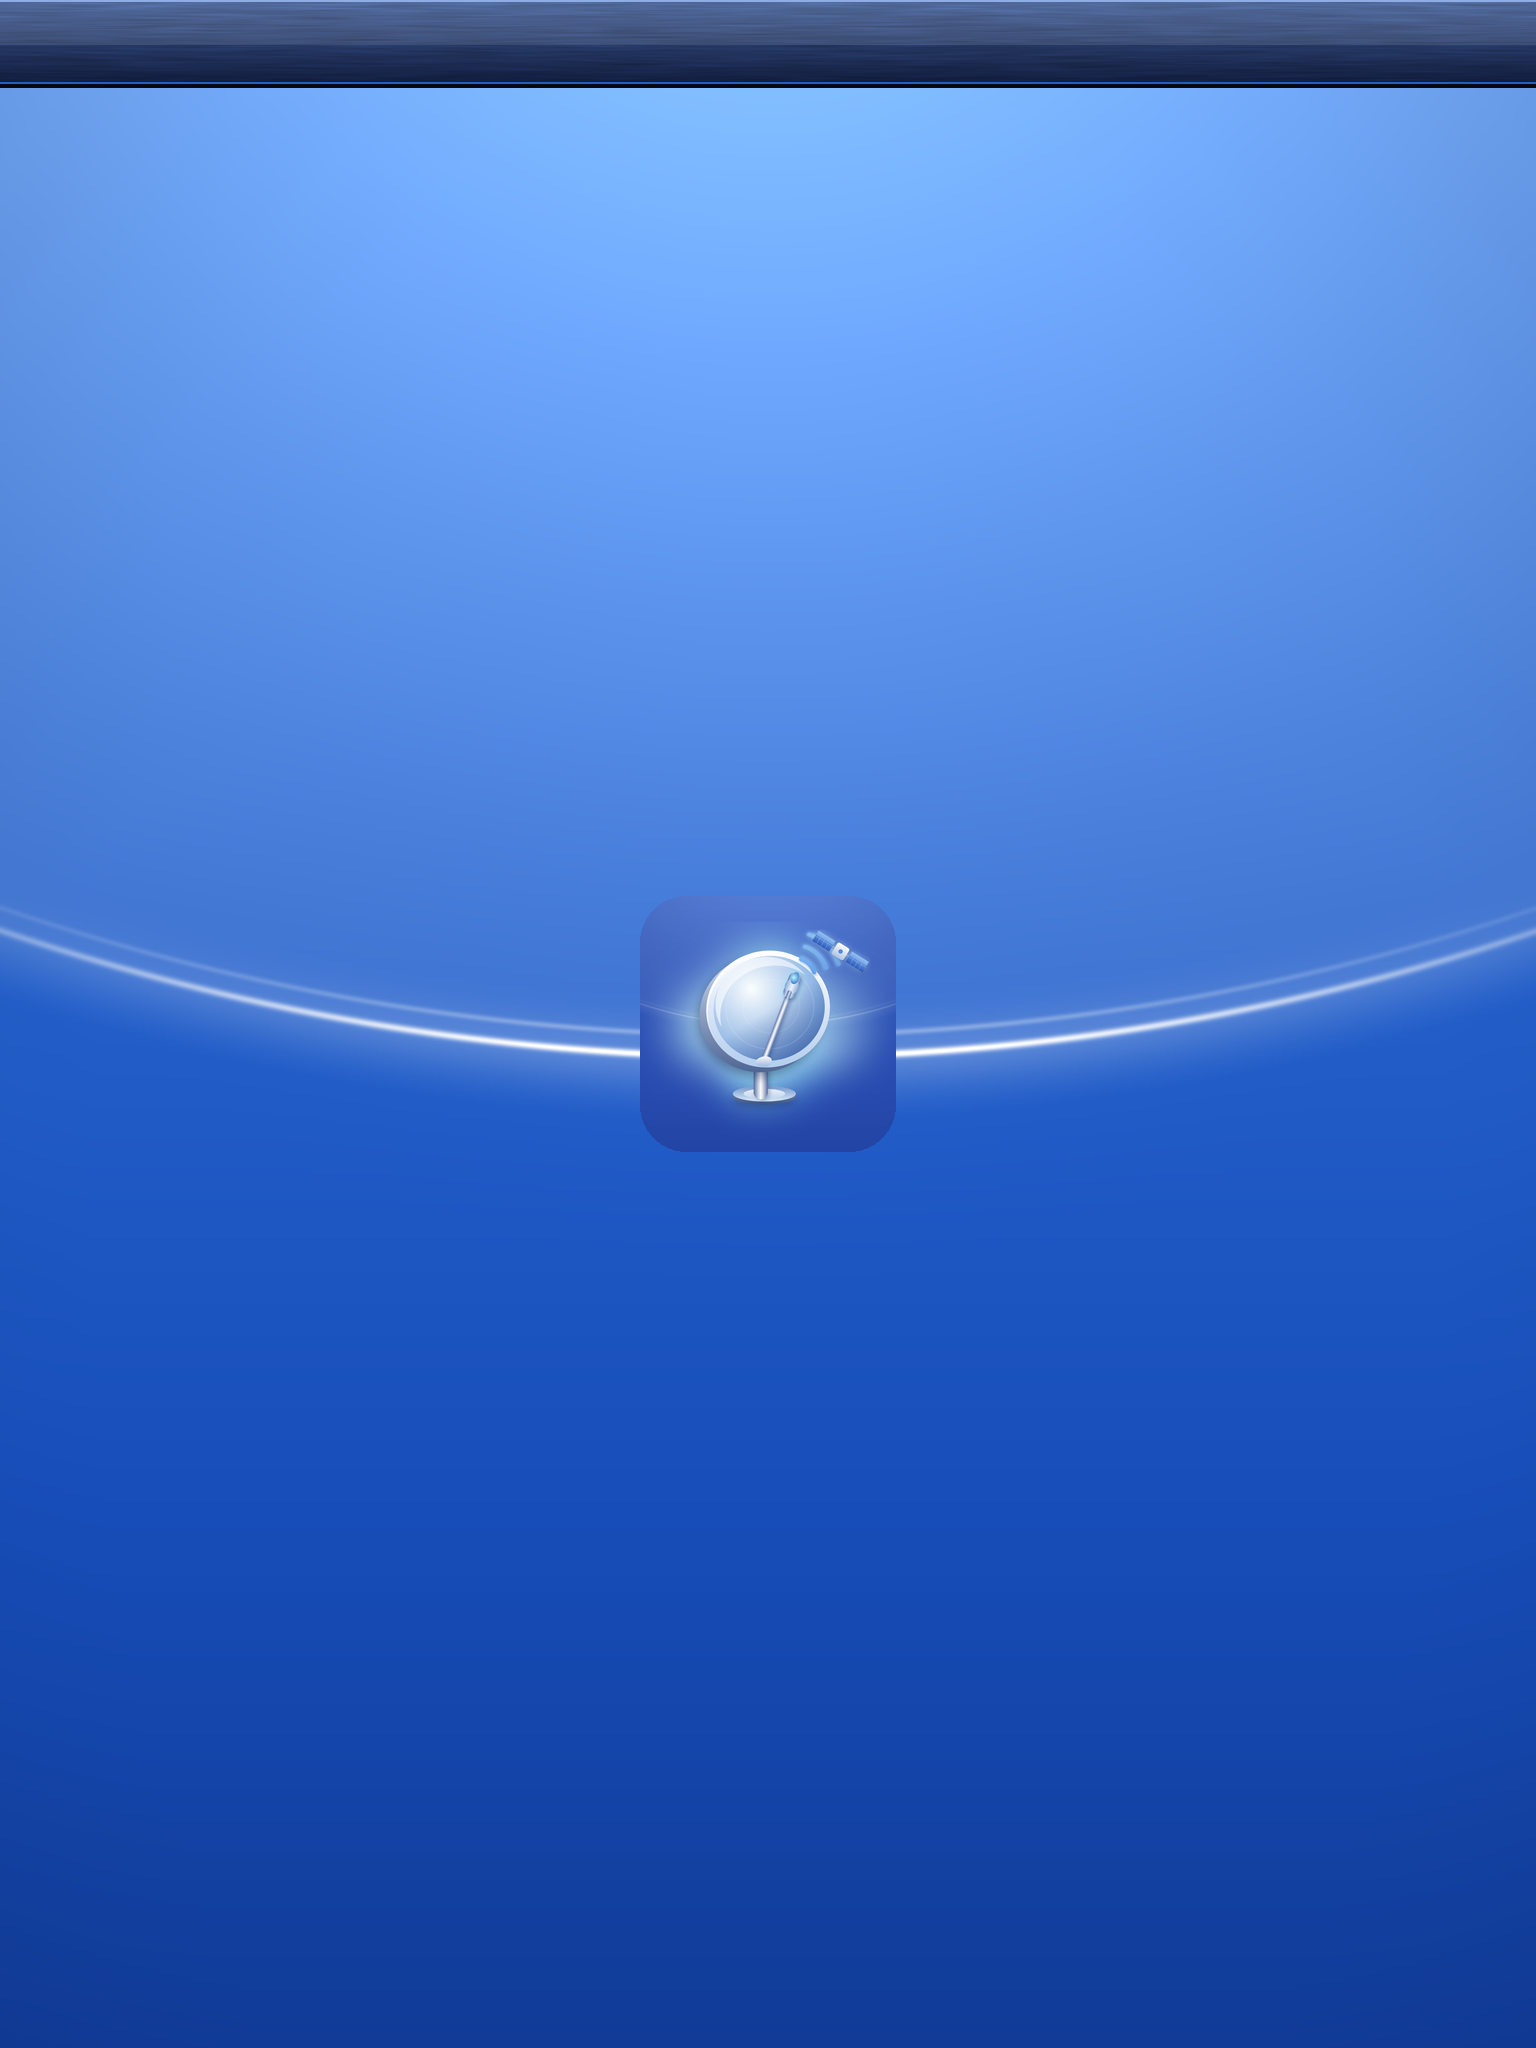
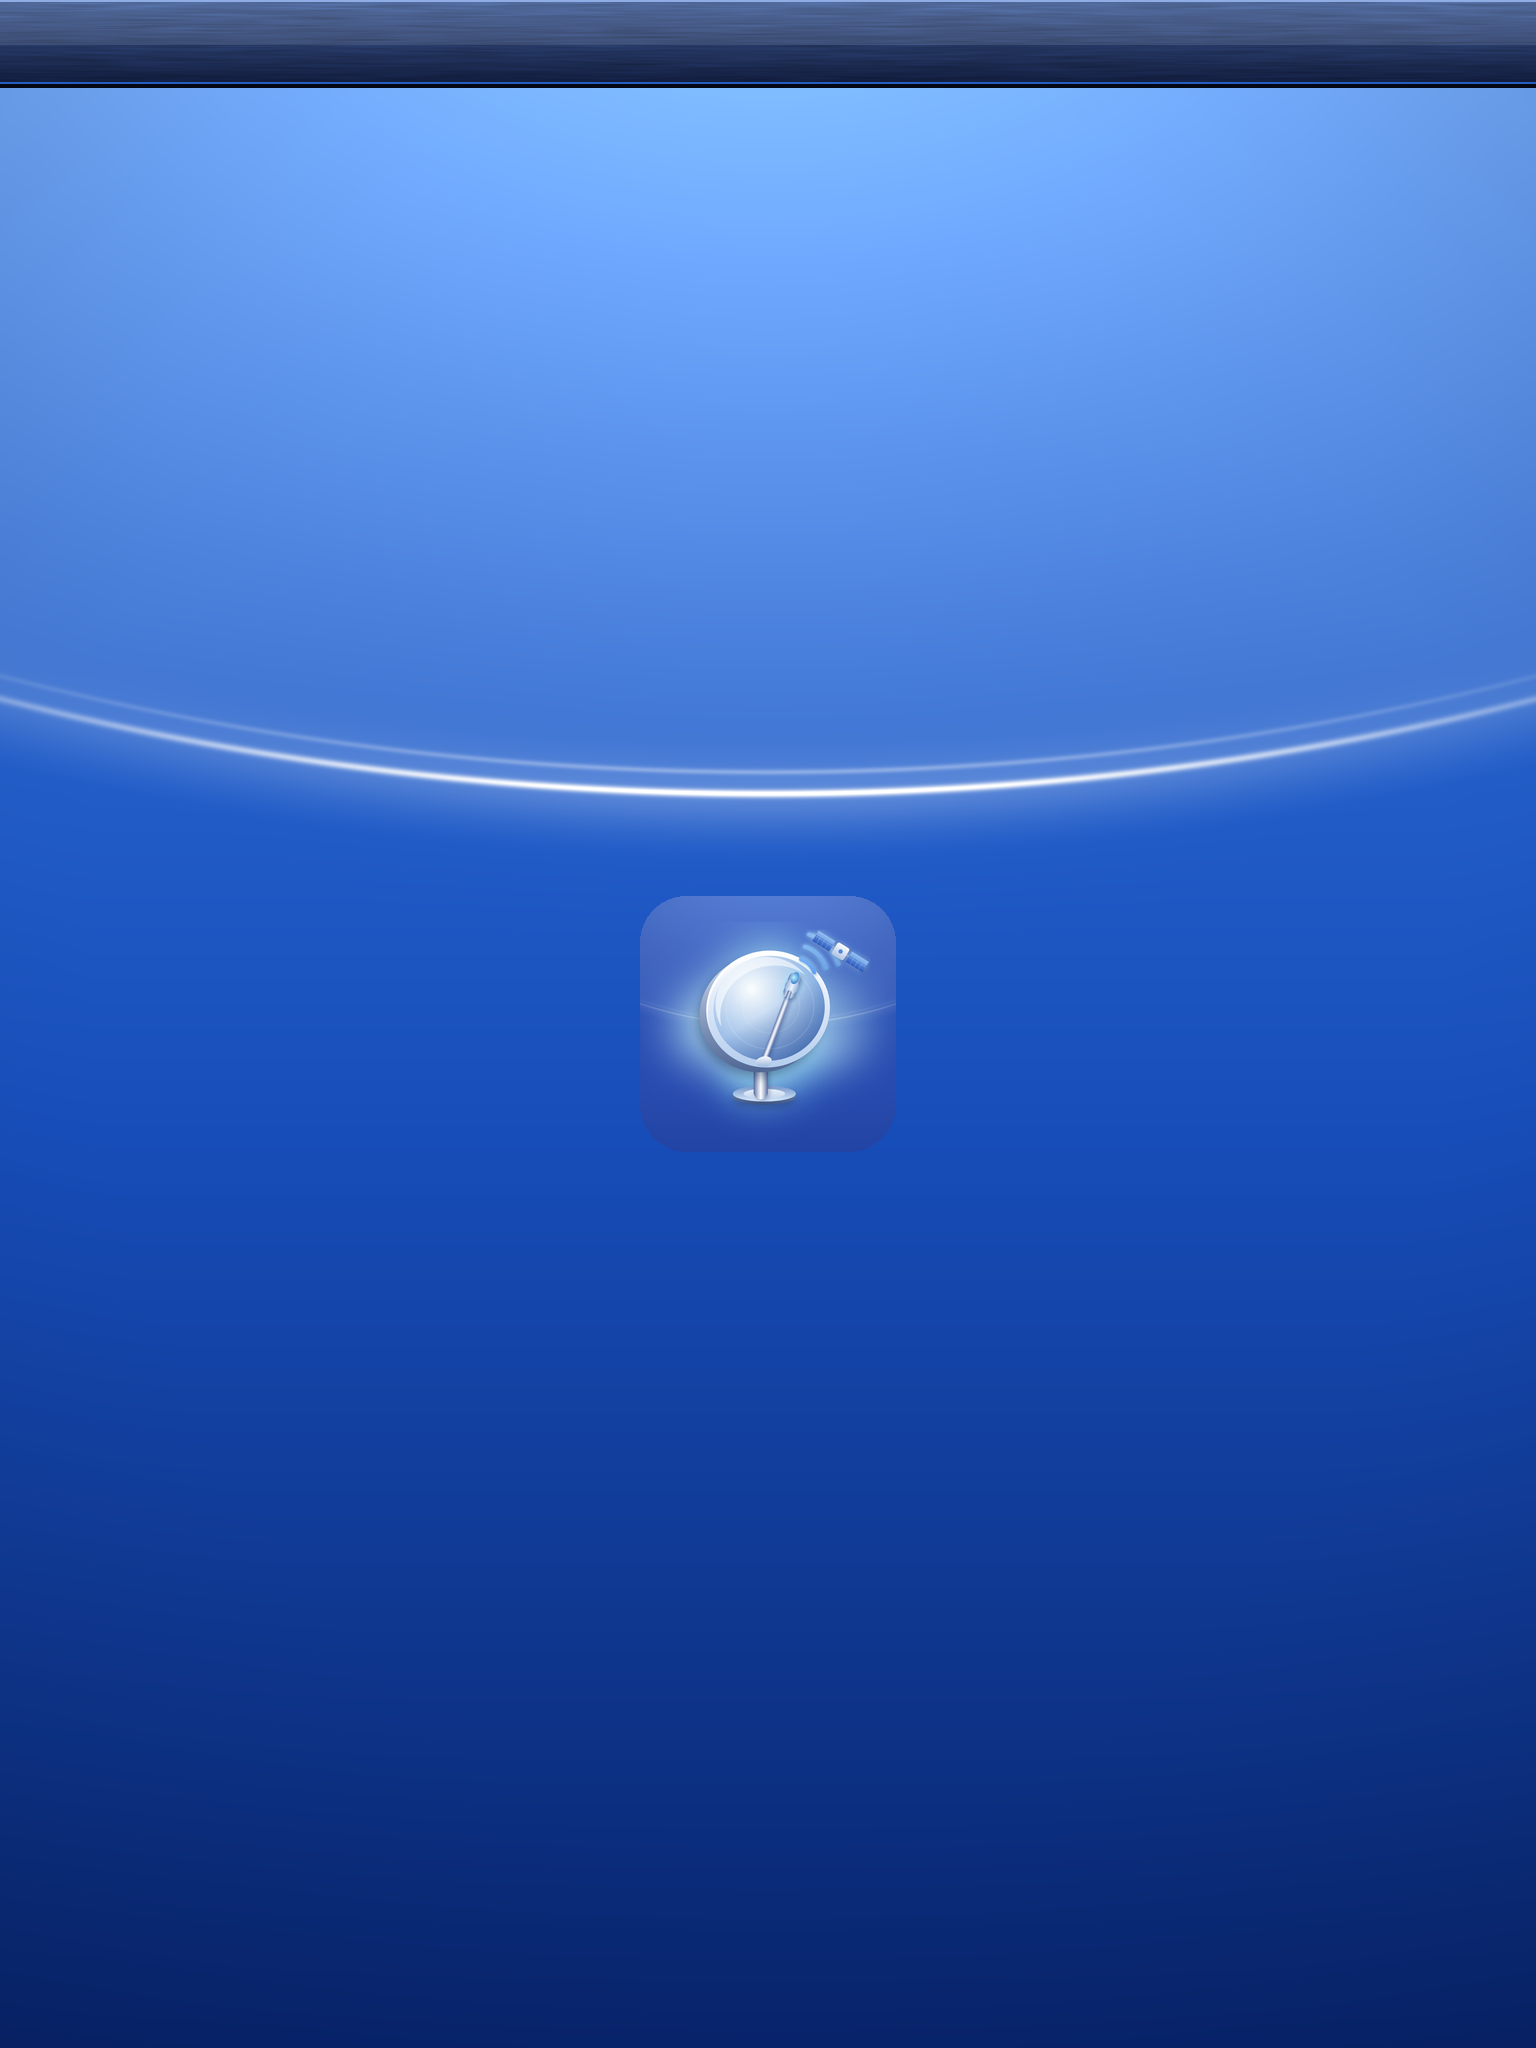
1.7.1: tło dopasowane do iPada i poziomu (bez rozciągania)
Claude-Session: https://claude.ai/code/session_01PihxfTb8dx7aVUpneCJ5Qy

diff --git a/tools/make_assets.py b/tools/make_assets.py
@@ -72,33 +72,44 @@ def linen():
 
 
 
-def main_bg():
-    """Tło ekranów: gładki niebieski gradient, poświata u góry i błysk w kształcie uśmiechu. Bez tekstury."""
-    W, H = 640, 1136
+def main_bg(W=640, H=1136, save=True):
+    """Tło ekranów: gładki niebieski gradient, poświata u góry i błysk w kształcie uśmiechu. Bez tekstury.
+    Wymiary dobieramy do ekranu (pionowy/poziomy, telefon/iPad), więc obraz nie jest rozciągany."""
+    k = H / 1136.0                      # skala pionowa (wzorzec: 640x1136)
+    s = min(W, H) / 640.0               # skala grubości linii
     yy, xx = np.mgrid[0:H, 0:W].astype(np.float32)
     t = yy / (H - 1)
     top = np.array([58, 128, 232], np.float32); mid = np.array([24, 78, 186], np.float32); bot = np.array([8, 36, 108], np.float32)
     a = np.clip(t / 0.55, 0, 1)[..., None]; b = np.clip((t - 0.55) / 0.45, 0, 1)[..., None]
     img = np.where(t[..., None] < 0.55, top * (1 - a) + mid * a, mid * (1 - b) + bot * b)
-    r = np.sqrt(((xx - W / 2) / (W * 0.75)) ** 2 + ((yy + 80) / 620) ** 2)
+    r = np.sqrt(((xx - W / 2) / (W * 0.75)) ** 2 + ((yy + 80 * k) / (620 * k)) ** 2)
     img = img + (np.clip(1 - r, 0, 1) ** 1.6)[..., None] * np.array([46, 62, 70], np.float32)
     img = np.clip(img, 0, 255)
-    cx, cy, rx, ry = W / 2, -520.0, 980.0, 960.0
+    cx, cy, rx, ry = W / 2, -520.0 * k, 980.0 / 640.0 * W, 960.0 * k
     d = (np.sqrt(((xx - cx) / rx) ** 2 + ((yy - cy) / ry) ** 2) - 1.0) * ry
-    band = np.clip(1 - np.clip(d / 26.0, 0, 1), 0, 1)
-    gloss = band * (0.10 + 0.16 * np.clip(1 - yy / 470.0, 0, 1))
+    band = np.clip(1 - np.clip(d / (26.0 * s), 0, 1), 0, 1)
+    gloss = band * (0.10 + 0.16 * np.clip(1 - yy / (470.0 * k), 0, 1))
     img = img + gloss[..., None] * (255 - img)
     prof = np.exp(-((xx - W / 2) / (W * 0.46)) ** 2)
-    line = np.exp(-(d / 1.6) ** 2) * prof * 0.95
-    line2 = np.exp(-((d + 9) / 1.2) ** 2) * prof * 0.30
-    halo = np.exp(-(d / 14.0) ** 2) * prof * 0.16
+    line = np.exp(-(d / (1.6 * s)) ** 2) * prof * 0.95
+    line2 = np.exp(-((d + 9 * s) / (1.2 * s)) ** 2) * prof * 0.30
+    halo = np.exp(-(d / (14.0 * s)) ** 2) * prof * 0.16
     img = img + np.clip(line + line2 + halo, 0, 1)[..., None] * (255 - img)
     vr = np.sqrt(((xx - W / 2) / (W * 0.8)) ** 2 + ((yy - H * 0.45) / (H * 0.8)) ** 2)
     img = img * (1 - 0.30 * np.clip(vr - 0.55, 0, 1) ** 1.3)[..., None]
     im = Image.fromarray(np.clip(img, 0, 255).astype(np.uint8), 'RGB')
-    im.save(os.path.join(OUT, 'bg_main@2x.png'))
-    im.resize((W // 2, H // 2), Image.LANCZOS).save(os.path.join(OUT, 'bg_main.png'))
+    if save:
+        im.save(os.path.join(OUT, 'bg_main@2x.png'))
+        im.resize((W // 2, H // 2), Image.LANCZOS).save(os.path.join(OUT, 'bg_main.png'))
     return im
+
+
+def sized_backgrounds():
+    """Osobne tła dla iPada (pion i poziom) i dla telefonu w poziomie: @2x oraz @1x."""
+    for name, w1, h1 in (('bg_pad_p', 768, 1024), ('bg_pad_l', 1024, 768), ('bg_phone_l', 568, 320)):
+        im = main_bg(w1 * 2, h1 * 2, save=False)
+        im.save(os.path.join(OUT, name + '@2x.png'))
+        im.resize((w1, h1), Image.LANCZOS).save(os.path.join(OUT, name + '.png'))
 
 
 def nav_bar():
@@ -374,14 +385,12 @@ def rail_glyphs():
 def ipad_icons_and_launch(icon):
     for name, sz in (('Icon-72.png', 72), ('Icon-72@2x.png', 144), ('Icon-Small-50.png', 50), ('Icon-Small-50@2x.png', 100)):
         icon.resize((sz, sz), Image.LANCZOS).save(os.path.join(OUT, name))
-    bgm = Image.open(os.path.join(OUT, 'bg_main@2x.png')).convert('RGB')
     nav = Image.open(os.path.join(OUT, 'nav_bar@2x.png')).convert('RGBA')
     for w, h, name in ((768, 1024, 'Default-Portrait~ipad.png'), (1536, 2048, 'Default-Portrait@2x~ipad.png'),
                        (1024, 768, 'Default-Landscape~ipad.png'), (2048, 1536, 'Default-Landscape@2x~ipad.png')):
         scale = 2 if '@2x' in name else 1
-        bh = int(bgm.height * w / bgm.width)
-        im = bgm.resize((w, max(bh, h)), Image.LANCZOS).crop((0, 0, w, h)).convert('RGBA')
-        im.alpha_composite(nav.resize((w, nav.height * scale // 2 * 1), Image.LANCZOS), (0, 0))
+        im = main_bg(w, h, save=False).convert('RGBA')
+        im.alpha_composite(nav.resize((w, nav.height * scale // 2), Image.LANCZOS), (0, 0))
         side = 128 * scale
         ic = icon.resize((side, side), Image.LANCZOS).convert('RGBA')
         m = Image.new('L', (side, side), 0)
@@ -402,5 +411,5 @@ if __name__ == '__main__':
     stretch_row('cell_sel', (66, 134, 236), (30, 84, 190), (160, 204, 255), (12, 38, 98), alpha=0.92)
     buttons(); tile_card(); icons_bar(); setup_assets()
     icons_and_launch(icon_1024())
-    ipad_icons_and_launch(icon_1024()); rail_glyphs()
+    sized_backgrounds(); ipad_icons_and_launch(icon_1024()); rail_glyphs()
     print('gotowe:', sorted(os.listdir(OUT)))

diff --git a/M3UTheme.m b/M3UTheme.m
@@ -11,6 +11,7 @@ UIColor *M3UAccentColor(void) { return [UIColor colorWithRed:0.38f green:0.63f b
 
 @implementation M3UBackdrop {
     UIImageView *_pic;
+    NSString *_name;
 }
 
 - (id)initWithFrame:(CGRect)frame
@@ -21,18 +22,28 @@ UIColor *M3UAccentColor(void) { return [UIColor colorWithRed:0.38f green:0.63f b
     self.userInteractionEnabled = NO;
     self.autoresizingMask = UIViewAutoresizingFlexibleWidth | UIViewAutoresizingFlexibleHeight;
     _pic = [[UIImageView alloc] initWithImage:img(@"bg_main")];
-    _pic.contentMode = UIViewContentModeScaleToFill;
+    _pic.contentMode = UIViewContentModeScaleToFill;     /* ramkę liczymy sami, w layoutSubviews */
     [self addSubview:_pic];
     return self;
 }
 
+/* Obraz dobrany do rozmiaru i układu ekranu (pion/poziom, iPad/telefon), żeby nie był rozciągany. */
 - (void)layoutSubviews
 {
     [super layoutSubviews];
-    CGFloat w = self.bounds.size.width;
-    CGFloat h = w * 1136.0f / 640.0f;
-    if (h < self.bounds.size.height) h = self.bounds.size.height;
-    _pic.frame = CGRectMake(0, 0, w, h);
+    CGFloat bw = self.bounds.size.width, bh = self.bounds.size.height;
+    BOOL landscape = bw > bh;
+    BOOL pad = UI_USER_INTERFACE_IDIOM() == UIUserInterfaceIdiomPad;
+    NSString *name = pad ? (landscape ? @"bg_pad_l" : @"bg_pad_p") : (landscape ? @"bg_phone_l" : @"bg_main");
+    if (![_name isEqualToString:name]) {
+        _name = name;
+        _pic.image = img(name);
+    }
+    CGSize is = _pic.image.size;
+    if (is.width < 1 || is.height < 1) return;
+    CGFloat k = MAX(bw / is.width, bh / is.height);            /* wypełnij cały widok, bez zniekształceń */
+    CGFloat w = is.width * k, h = is.height * k;
+    _pic.frame = CGRectMake((bw - w) / 2.0f, 0, w, h);          /* przypięty do góry, wyśrodkowany */
 }
 
 @end

diff --git a/AppDelegate.m b/AppDelegate.m
@@ -17,7 +17,7 @@
 {
     M3UDiagInstall();
     NSString *crash = M3UDiagCrashReportIfAny();
-    M3UBreadcrumb(@"start aplikacji 1.7.0");
+    M3UBreadcrumb(@"start aplikacji 1.7.1");
     M3UDiagMarkRunning(YES);
     M3UThemeApply();
     [application setStatusBarStyle:UIStatusBarStyleBlackOpaque];
